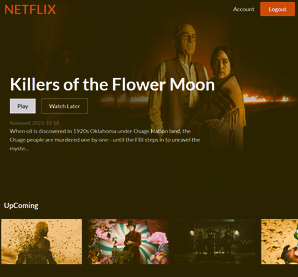
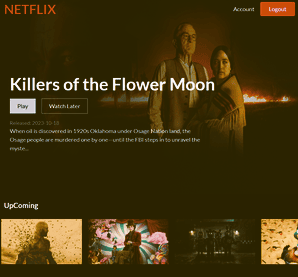
febrary 5, 2024 commit language

diff --git a/src/components/Projects/MyVerticallyCenteredModal.jsx b/src/components/Projects/MyVerticallyCenteredModal.jsx
@@ -4,14 +4,13 @@ import Modal from "react-bootstrap/Modal";
 import styles from "./MyVerticallyCenteredModal.module.css";
 import { useTranslation } from "react-i18next";
 
-
 function MyVerticallyCenteredModal(props) {
   const { show, onHide, projectId } = props;
   const { t } = useTranslation();
 
   let modalContent = null;
 
-  if(projectId === 1){
+  if (projectId === 1) {
     modalContent = (
       <>
         <Modal.Header className={styles.header} closeButton></Modal.Header>
@@ -21,13 +20,12 @@ function MyVerticallyCenteredModal(props) {
         </Modal.Body>
         <Modal.Footer className={styles.footer}>
           <Button variant="dark" onClick={props.onHide}>
-            {t('close')}
+            {t("close")}
           </Button>
-        </Modal.Footer>     
-      
+        </Modal.Footer>
       </>
     );
-  } else if(projectId === 2) {
+  } else if (projectId === 2) {
     modalContent = (
       <>
         <Modal.Header className={styles.header} closeButton></Modal.Header>
@@ -37,13 +35,11 @@ function MyVerticallyCenteredModal(props) {
         </Modal.Body>
         <Modal.Footer className={styles.footer}>
           <Button variant="dark" onClick={props.onHide}>
-          {t('close')}
+            {t("close")}
           </Button>
-        </Modal.Footer>   
-      
+        </Modal.Footer>
       </>
     );
-
   } else {
     modalContent = (
       <>
@@ -54,26 +50,23 @@ function MyVerticallyCenteredModal(props) {
         </Modal.Body>
         <Modal.Footer className={styles.footer}>
           <Button variant="dark" onClick={props.onHide}>
-          {t('close')}
+            {t("close")}
           </Button>
-        </Modal.Footer>        
+        </Modal.Footer>
       </>
     );
   }
 
-
   return (
     <>
       <Modal
-        {...props}     
+        {...props}
         size="lg"
         aria-labelledby="contained-modal-title-vcenter"
         centered
-      
         className={styles.container}
       >
         {modalContent}
-        
       </Modal>
     </>
   );

diff --git a/src/i18n.js b/src/i18n.js
@@ -2,7 +2,6 @@ import i18n from 'i18next'
 import  LanguageDetector from 'i18next-browser-languagedetector'
 import { initReactI18next } from 'react-i18next'
 
-
 i18n.use(LanguageDetector).use(initReactI18next).init({
     debug: true,
     fallbackLng: "en",
@@ -54,11 +53,8 @@ i18n.use(LanguageDetector).use(initReactI18next).init({
                 source : "Source",
                 close : "Close",
                 contactTitle : 'Contact',
-                contactP : 'Feel free to reach out!',
-
-                
-            },
-                    
+                contactP : 'Feel free to reach out!',                
+            },                    
         },
         es : {
             translation : {
@@ -69,7 +65,7 @@ i18n.use(LanguageDetector).use(initReactI18next).init({
                 navTitulo : "Portafolio",
                 navToggle : 'Modo Oscuro',
                 heroGreeting : "Hola, soy Santiago",
-                heroParagraph: "Soy un desarrollador frontend con experiencia en la creación de sitios responsivos y optimizados.",
+                heroParagraph: "Soy un desarrollador full-stack con 2 años de experiencia usando React JS y Laravel. ¡Comunícate si deseas obtener más información!",
                 heroContact : "Contáctame",
                 aboutTitle : "Sobre Mí",
                 aboutSubTitle1 : "Desarrolador Frontend",
@@ -105,12 +101,7 @@ i18n.use(LanguageDetector).use(initReactI18next).init({
                 close : "Cerrar",
                 contactTitle : 'Contacto',
                 contactP : '¡No dudes en comunicarte!',
-                
-
-                
-            }, 
-                    
-
+            },
         },
     }
 })

diff --git a/src/components/Navbar/Language/LanguageSelector.jsx b/src/components/Navbar/Language/LanguageSelector.jsx
@@ -1,27 +1,33 @@
-import React, {useEffect} from 'react'
+import React from "react";
 import styles from "./LanguageSelector.module.css";
-import { useTranslation } from 'react-i18next';
+import { useTranslation } from "react-i18next";
 
 const languages = [
-    {code: "en", lang: "English"},
-    {code: "es", lang: "Español"},
-]
-
-
+  { code: "en", lang: "English" },
+  { code: "es", lang: "Español" },
+];
 
 const LanguageSelector = () => {
-  const {i18n} = useTranslation()
+  const { i18n } = useTranslation();
   const changeLanguage = (lng) => {
     i18n.changeLanguage(lng);
-  
   };
 
-  return <div className={styles.btnContainer}>
-    {languages.map((lng) =>{
-      return (<button className={lng.code === i18n.language ? styles.selected : ""} key={lng.code} onClick={()=>changeLanguage(lng.code)}>{lng.lang}</button>);
-    })}
-  </div>
-  
-}
+  return (
+    <div className={styles.btnContainer}>
+      {languages.map((lng) => {
+        return (
+          <button
+            className={lng.code === i18n.language ? styles.selected : ""}
+            key={lng.code}
+            onClick={() => changeLanguage(lng.code)}
+          >
+            {lng.lang}
+          </button>
+        );
+      })}
+    </div>
+  );
+};
 
-export default LanguageSelector
+export default LanguageSelector;

diff --git a/src/components/Projects/ProjectCard.jsx b/src/components/Projects/ProjectCard.jsx
@@ -2,10 +2,8 @@ import React, { useState } from "react";
 import styles from "./ProjectsCard.module.css";
 import { getImageUrl } from "../../utils";
 import MyVerticallyCenteredModal from "./MyVerticallyCenteredModal";
-import Button from 'react-bootstrap/Button';
-import { useTranslation } from 'react-i18next';
-
-
+import Button from "react-bootstrap/Button";
+import { useTranslation } from "react-i18next";
 
 export const ProjectCard = () => {
   const [modalShow, setModalShow] = useState(false);
@@ -14,7 +12,6 @@ export const ProjectCard = () => {
   const { t } = useTranslation();
   return (
     <>
-
       <div className={styles.container}>
         <div className={styles.imageContainer}>
           <img
@@ -90,8 +87,6 @@ export const ProjectCard = () => {
           show={modalShow2}
           onHide={() => setModalShow2(false)}
           projectId={2}
-          
-          
         />
 
         <ul className={styles.skills}>
@@ -172,4 +167,3 @@ export const ProjectCard = () => {
     </>
   );
 };
-

diff --git a/src/components/Toggle/Toggle.jsx b/src/components/Toggle/Toggle.jsx
@@ -1,20 +1,20 @@
 import "./Toggle.module.css";
 import styles from "./Toggle.module.css";
-import { useTranslation } from 'react-i18next';
+import { useTranslation } from "react-i18next";
 
 export const Toggle = ({ handleChange, isChecked }) => {
-    const { t } = useTranslation();
-  
+  const { t } = useTranslation();
 
-    return (
-        <div className={styles.container}>
-            <input type="checkbox"
-             id="check" 
-             className={styles.toggle}
-             onChange={handleChange} 
-             checked={isChecked}
-            />
-            <label htmlFor="check">{t('navToggle')}</label>
-        </div>
-    )
-}
+  return (
+    <div className={styles.container}>
+      <input
+        type="checkbox"
+        id="check"
+        className={styles.toggle}
+        onChange={handleChange}
+        checked={isChecked}
+      />
+      <label htmlFor="check">{t("navToggle")}</label>
+    </div>
+  );
+};

diff --git a/src/components/Projects/Projects.jsx b/src/components/Projects/Projects.jsx
@@ -1,16 +1,15 @@
 import React from "react";
 import styles from "./Projects.module.css";
-
 import { ProjectCard } from "./ProjectCard";
-import { useTranslation } from 'react-i18next';
+import { useTranslation } from "react-i18next";
 
 export const Projects = () => {
   const { t } = useTranslation();
   return (
     <section className={styles.container} id="projects">
-      <h2 className={styles.title}>{t('projectsTitle')}</h2>
+      <h2 className={styles.title}>{t("projectsTitle")}</h2>
       <div className={styles.projects}>
-      <ProjectCard  />;
+        <ProjectCard />;
       </div>
     </section>
   );

diff --git a/src/components/Hero/Hero.module.css b/src/components/Hero/Hero.module.css
@@ -59,9 +59,8 @@
 
 
 .heroImg {
-  width: 50%;
+  width: 44%;
   z-index: 1;
-
   animation-name: floating;
   animation-duration: 3s;
   animation-iteration-count: infinite;
@@ -107,6 +106,11 @@
   background: rgba(145, 141, 97, 0.7);
   filter: blur(100px);
   z-index: 0;
+}
+
+@media screen and ( max-width: 768px ) {
+
+
 }
 
 @media screen and (max-width: 830px) {

diff --git a/src/components/Hero/Hero.jsx b/src/components/Hero/Hero.jsx
@@ -17,7 +17,7 @@ export const Hero = () => {
         </a>
       </div>
       <img
-        src={getImageUrl("hero/heroImage3.png")}
+        src={getImageUrl("hero/heroImage3 (1) (1).png")}
         alt="Hero image of me"
         className={styles.heroImg}
       />

diff --git a/src/components/Navbar/Language/LanguageSelector.module.css b/src/components/Navbar/Language/LanguageSelector.module.css
@@ -29,7 +29,7 @@ button:hover {
 
 button.selected {
     background-color: var(--color-primary);
-    color: azure;
+    color: var(--color-tertiary)
 }
 
 @media screen and (max-width: 1200px) {

diff --git a/src/components/Toggle/Toggle.module.css b/src/components/Toggle/Toggle.module.css
@@ -3,7 +3,7 @@
 .container {
     position: absolute;
     top:2em;
-    right: 2.2em;   
+    right: 3.2em;   
     padding-top: 32px;
     margin: 0 8%;
 }

diff --git a/src/vars.css b/src/vars.css
@@ -11,6 +11,7 @@
     --toggle-fg: #251418;
     --about-bg: #918d6199;
     --hover-btn:#463233;
+        /* Fonts */
     --font-roboto: "Roboto";
   }
 

diff --git a/src/components/Navbar/Navbar.module.css b/src/components/Navbar/Navbar.module.css
@@ -27,7 +27,7 @@
 
 .menuItems {
   display: flex;
-  gap: 33px;
+  gap: 36px;
   list-style: none;
 }
 
